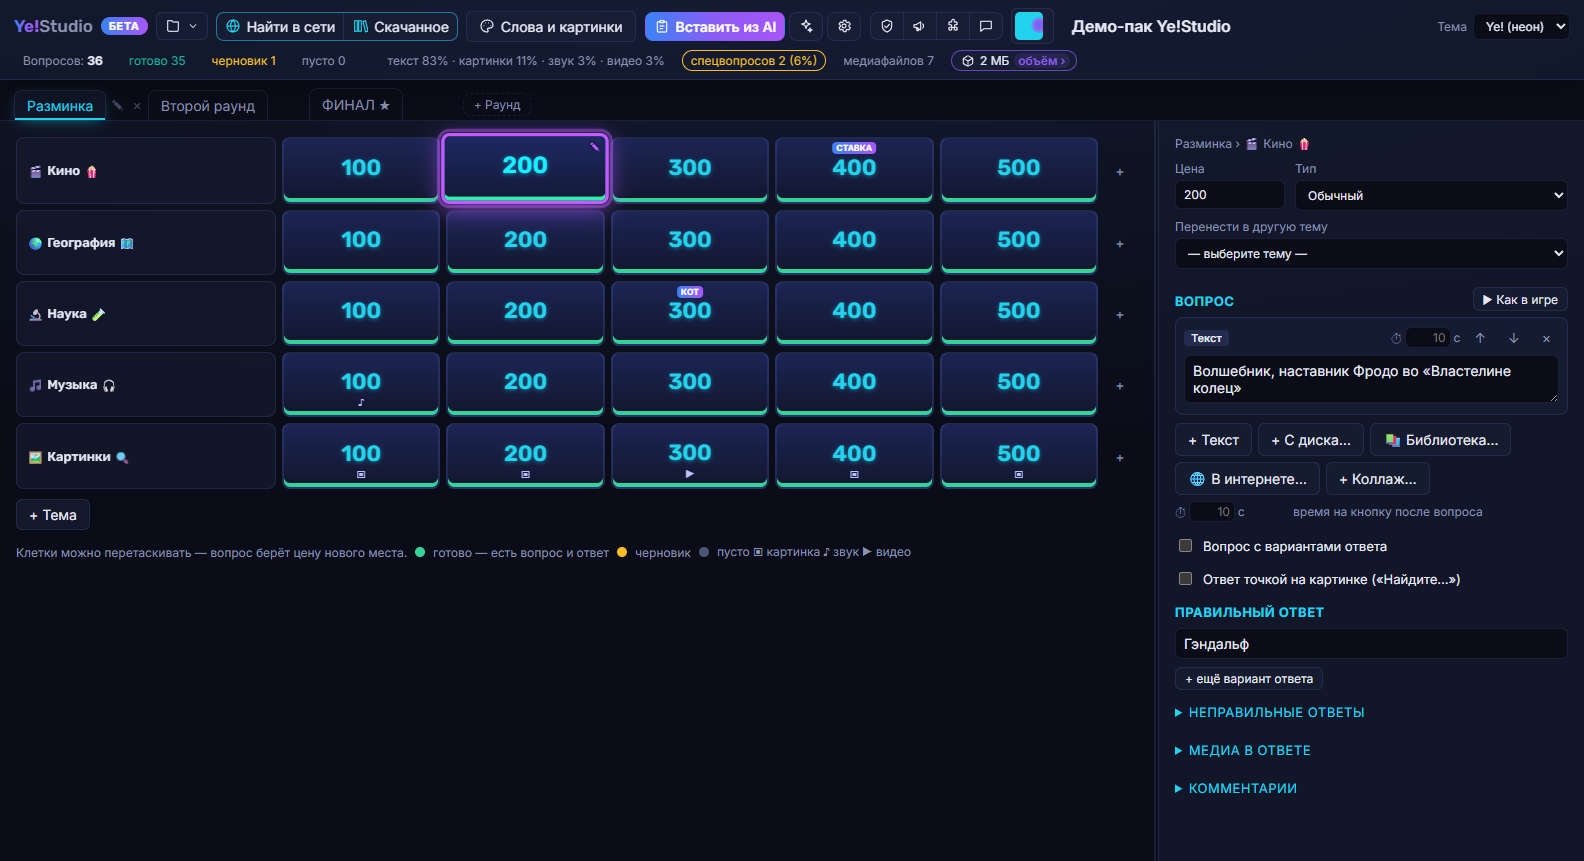
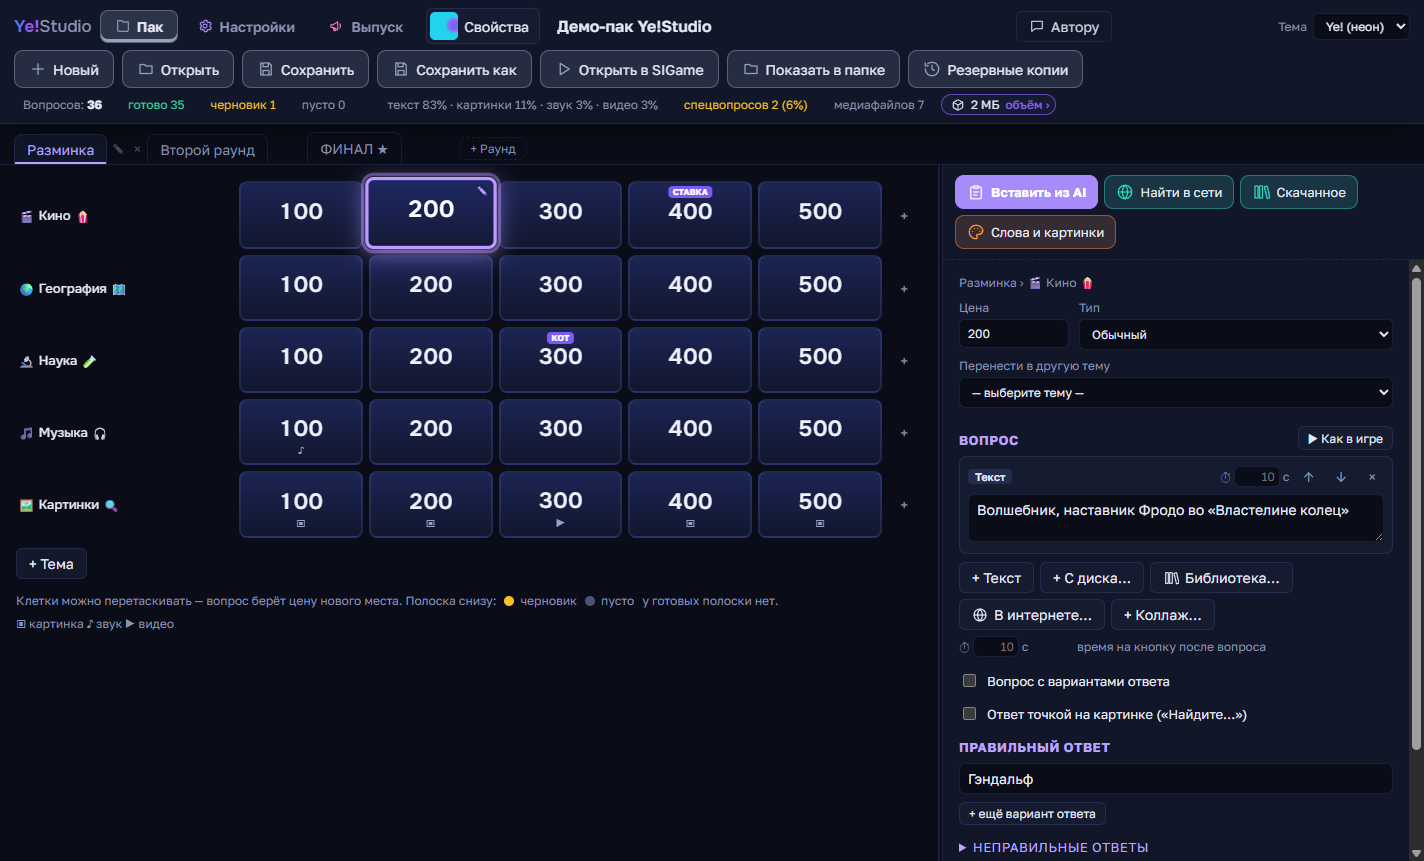
README: свежие снимки (шапка, автопроверка, редактор видео) и новые названия кнопок
Редактор видео: три кнопки внизу переносятся целиком — подписи больше не ломаются на три строки.

diff --git a/app/src/renderer/src/styles.css b/app/src/renderer/src/styles.css
@@ -404,7 +404,9 @@ label.check input { width: auto; }
 label.check.inline { flex-direction: row; align-items: center; gap: 6px; font-size: 12px; color: var(--muted); margin: 4px 0; }
 label.check.inline input { width: auto; }
 .shape-props { border: 1px solid var(--line); border-radius: 8px; padding: 8px; margin-top: 6px; }
-.apply-box { display: flex; gap: 8px; margin-top: 18px; }
+/* три кнопки в узкую колонку не влезают: переносятся целиком, а не ломают подписи на три строки */
+.apply-box { display: flex; flex-wrap: wrap; gap: 8px; margin-top: 18px; }
+.apply-box button { white-space: nowrap; }
 .progress { height: 6px; background: var(--panel-2); border-radius: 3px; margin-top: 8px; overflow: hidden; }
 .progress i { display: block; height: 100%; background: var(--accent); }
 .err { color: var(--danger); font-size: 12px; }

diff --git a/README.md b/README.md
@@ -24,21 +24,23 @@ Claude и ChatGPT, проверка пака перед публикацией. 
 ![Вставка вопросов из ИИ](docs/screenshots/paste-from-ai.png)
 
 ### Разметка вопросов в браузере
-Кнопка **🤝 Помощник** настраивает Claude или ChatGPT: ИИ присылает пачку вопросов страницей разметки.
+Кнопка **«ИИ-помощник Claude/ChatGPT»** (вкладка «Настройки») настраивает Claude или ChatGPT: ИИ присылает пачку вопросов страницей разметки.
 Берёте/отклоняете клавишами `1` / `0`, правите цену и текст, жмёте **«Для Мастерской»** — и вставляете в пак.
 
 ![Страница разметки вопросов](docs/screenshots/labeler.png)
 
-### Проверка пака перед публикацией
+### Автопроверка пака перед публикацией
 Пустые вопросы и вопросы без ответа, ссылки на файлы, которых нет в паке, повторяющиеся ответы, объём
 (100 МБ для SIBrowser/FirePacks), доля спецвопросов по порогам FirePacks. Щелчок по строке — к вопросу.
+**«Найти повторы»** сверяет вопросы со всеми паками FirePacks и показывает, где такое уже было.
 Оттуда же — **«Открыть в SIGame»**.
 
 ![Проверка пака](docs/screenshots/check.png)
 
 ### Медиа-редактор
 Обрезка видео и звука по времени, кадрирование, заглушки поверх кадра (закрыть ответ или логотип),
-выравнивание громкости, плавное начало и конец, стоп-кадр в пак, сжатие под нужный размер.
+выравнивание громкости, плавное начало и конец, стоп-кадр в пак, «оставить только звук», сжатие под нужный размер.
+В «Объёме пака» громкость всех звуков и видео выравнивается одной кнопкой.
 
 ![Редактор видео](docs/screenshots/media-editor.png)
 
@@ -48,7 +50,7 @@ Claude и ChatGPT, проверка пака перед публикацией. 
 ![Как в игре](docs/screenshots/game-preview.png)
 
 ### Афиша для соцсетей
-Одна картинка со всеми темами пака по раундам и готовый текст поста.
+Одна картинка со всеми темами пака по раундам и готовый текст поста со ссылкой на отзывы игроков.
 
 ![Афиша пака](docs/screenshots/poster.png)
 
@@ -78,7 +80,7 @@ npm run dist:update  # установщик в app/dist-setup
 ## Что приложение отправляет
 
 На сервер автора (`server/`) уходят только: анонимный ID установки и версия (статистика запусков), отчёты об ошибках
-(без путей и имени пользователя; выключаются в «⚙ ИИ → Прочее») и отзывы, которые вы отправили сами.
+(без путей и имени пользователя; выключаются в окне «Автору») и отзывы, которые вы отправили сами.
 Обновления приходят из [релизов этого репозитория](../../releases) и ставятся только с вашего согласия.
 
 ## Спасибо
